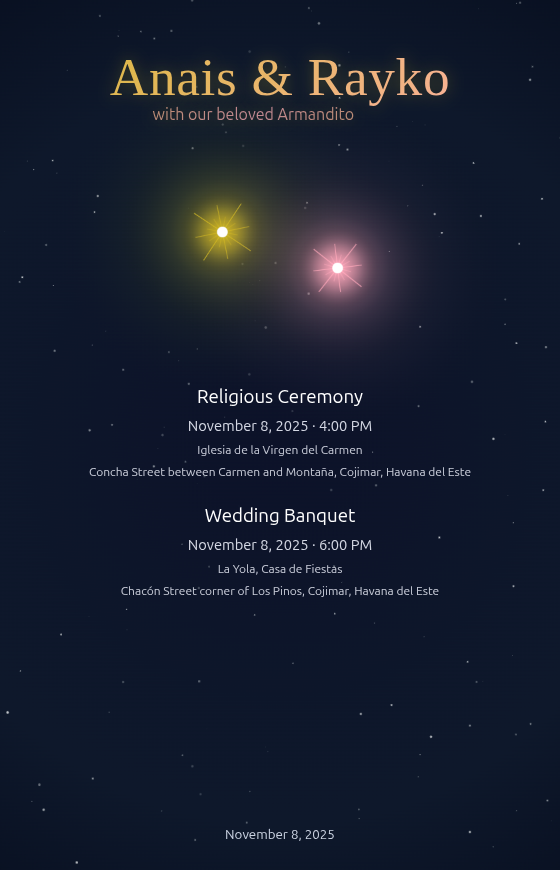
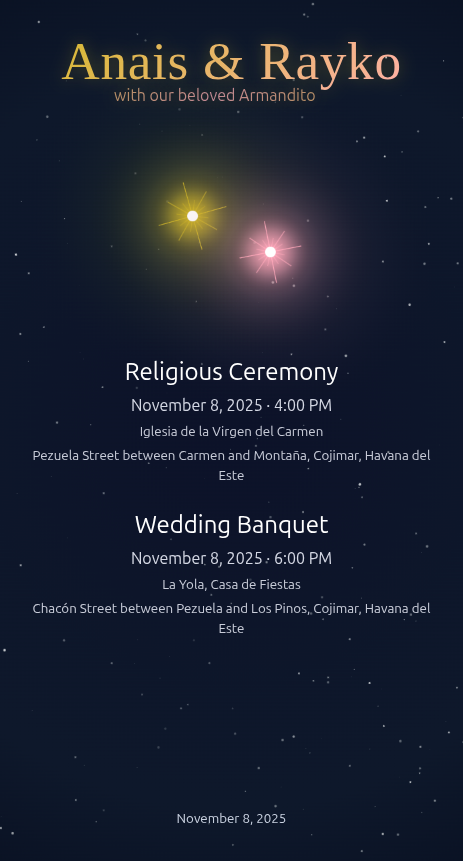
feat: update invitation design and correct venue addresses

diff --git a/src/i18n/translations.ts b/src/i18n/translations.ts
@@ -95,7 +95,7 @@ export const translations = {
           date: '8 de Noviembre, 2025',
           time: '4:00 PM',
           venue: 'Iglesia de la Virgen del Carmen',
-          address: 'Calle Concha entre Cármen y Montaña, Cojimar, Habana del Este',
+          address: 'Calle Pezuela entre Cármen y Montaña, Cojimar, Habana del Este',
           dateLabel: 'Fecha',
           timeLabel: 'Hora',
           venueLabel: 'Lugar',
@@ -107,7 +107,7 @@ export const translations = {
           date: '8 de Noviembre, 2025',
           time: '6:00 PM',
           venue: 'La Yola, Casa de Fiestas',
-          address: 'Calle Chacón esquina Los Pinos, Cojimar, Habana del Este',
+          address: 'Calle Chacón entre Pezuela y Los Pinos, Cojimar, Habana del Este',
           dateLabel: 'Fecha',
           timeLabel: 'Hora',
           venueLabel: 'Lugar',
@@ -217,7 +217,7 @@ export const translations = {
           date: 'November 8, 2025',
           time: '4:00 PM',
           venue: 'Iglesia de la Virgen del Carmen',
-          address: 'Concha Street between Carmen and Montaña, Cojimar, Havana del Este',
+          address: 'Pezuela Street between Carmen and Montaña, Cojimar, Havana del Este',
           dateLabel: 'Date',
           timeLabel: 'Time',
           venueLabel: 'Venue',
@@ -229,7 +229,7 @@ export const translations = {
           date: 'November 8, 2025',
           time: '6:00 PM',
           venue: 'La Yola, Casa de Fiestas',
-          address: 'Chacón Street corner of Los Pinos, Cojimar, Havana del Este',
+          address: 'Chacón Street between Pezuela and Los Pinos, Cojimar, Havana del Este',
           dateLabel: 'Date',
           timeLabel: 'Time',
           venueLabel: 'Venue',
